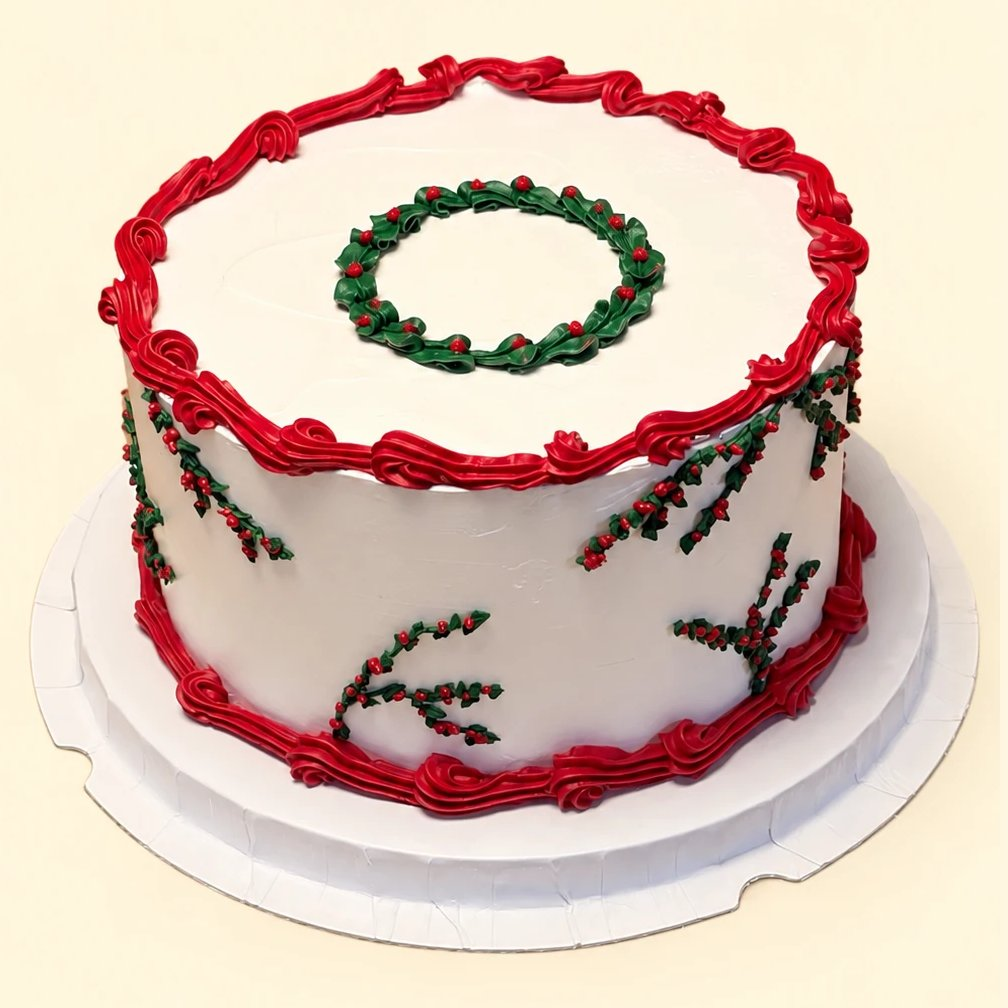
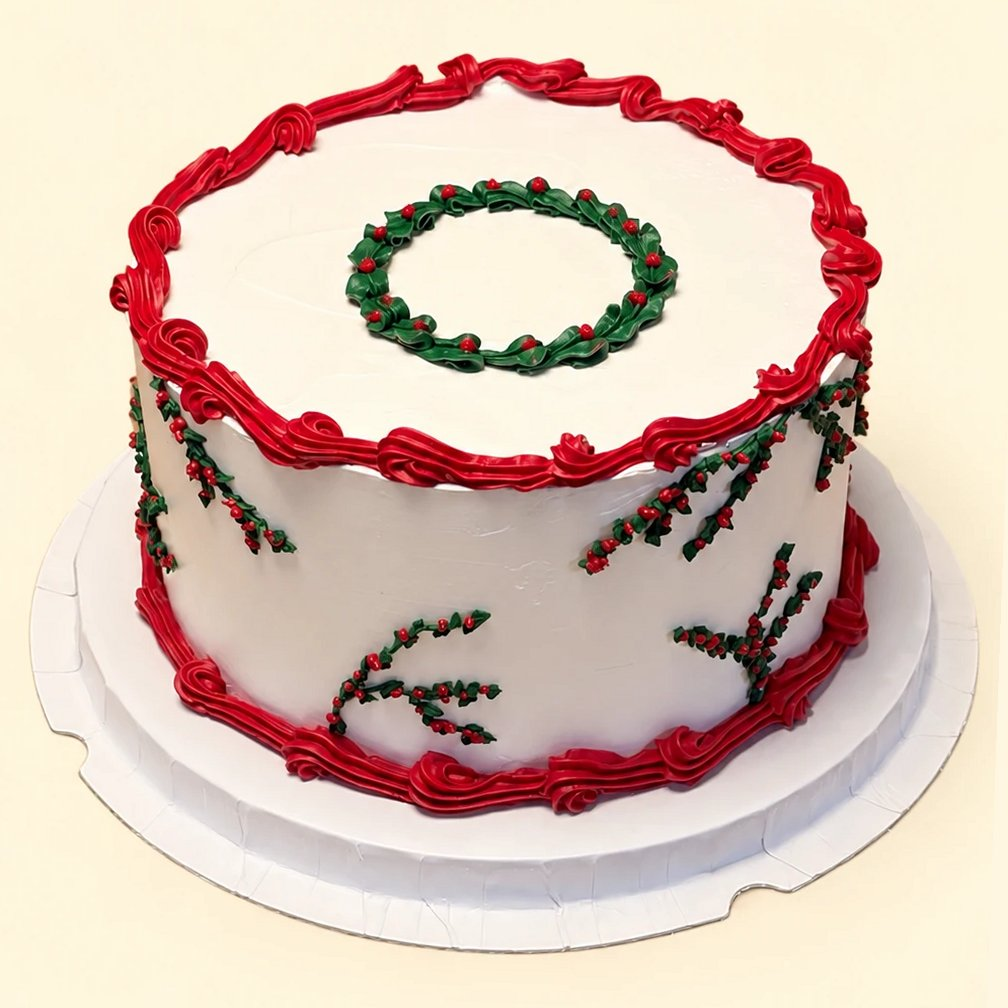
Christmas page: straightened Gui de Noël photo first, Casse-Noisette photos

diff --git a/src/data/christmas.ts b/src/data/christmas.ts
@@ -14,6 +14,8 @@ import noelRoyal from "@/assets/noel-royal.jpg";
 import noelBeauSapin from "@/assets/noel-beau-sapin.jpg";
 import noelSapin from "@/assets/noel-sapin.jpg";
 import noelCirque from "@/assets/noel-cirque.jpg";
+import bucheCasseNoisette1 from "@/assets/buche-casse-noisette-1.jpg";
+import bucheCasseNoisette2 from "@/assets/buche-casse-noisette-2.jpg";
 import bucheJardinHiver1 from "@/assets/buche-jardin-hiver-1.jpg";
 import bucheJardinHiver2 from "@/assets/buche-jardin-hiver-2.jpg";
 import bucheEtoileNoel1 from "@/assets/buche-etoile-noel-1.jpg";
@@ -57,7 +59,7 @@ export const CHRISTMAS_CAKES: ChristmasCake[] = [
   { id: "noel-royal", nameFr: "Noël Royal", nameEn: "Royal Christmas", prices: { retro: 55, medium: 105, large: 185 }, image: noelRoyal },
   { id: "noel-sapin", nameFr: "Le Sapin de Noël", nameEn: "Christmas Tree", prices: { retro: 60, medium: 140, large: 230 }, image: noelSapin },
   { id: "noel-cirque", nameFr: "Le Cirque de Noël", nameEn: "Christmas Circus", prices: { retro: 55, medium: 110, large: 190 }, image: noelCirque },
-  { id: "noel-gui", nameFr: "Gui de Noël", nameEn: "Under the Mistletoe", prices: { retro: 55, medium: 105, large: 185 }, image: noelGui1, moreImages: [noelGui2, noelGui3] },
+  { id: "noel-gui", nameFr: "Gui de Noël", nameEn: "Under the Mistletoe", prices: { retro: 55, medium: 105, large: 185 }, image: noelGui2, moreImages: [noelGui1, noelGui3] },
   { id: "noel-beau-sapin", nameFr: "Mon beau sapin", nameEn: "Little Christmas Tree", prices: { bento: 45, medium: 90, large: 175 }, image: noelBeauSapin },
 ];
 
@@ -65,7 +67,7 @@ export const CHRISTMAS_CAKES: ChristmasCake[] = [
 export const CHRISTMAS_LOG_PRICE = 65;
 
 export const CHRISTMAS_LOGS: ChristmasLog[] = [
-  { id: "buche-casse-noisette", nameFr: "Casse-Noisette", nameEn: "Nutcracker", image: null },
+  { id: "buche-casse-noisette", nameFr: "Casse-Noisette", nameEn: "Nutcracker", image: bucheCasseNoisette1, moreImages: [bucheCasseNoisette2] },
   { id: "buche-jardin-hiver", nameFr: "Le Jardin d’Hiver", nameEn: "Winter Garden", image: bucheJardinHiver1, moreImages: [bucheJardinHiver2] },
   { id: "buche-etoile-noel", nameFr: "Étoile de Noël", nameEn: "Christmas Star", image: bucheEtoileNoel1, moreImages: [bucheEtoileNoel2] },
 ];
